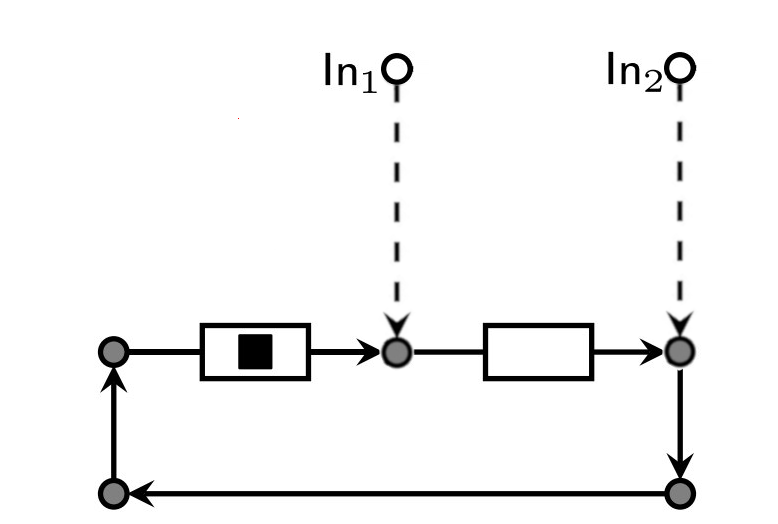
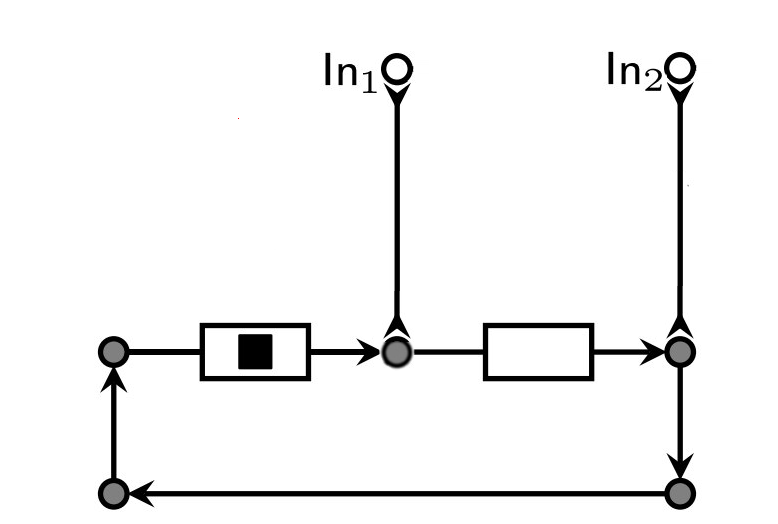
plaatje sequencer gefixt

Changed region(s): [[0.8329, 0.1221, 0.8946, 0.7023], [0.4936, 0.1527, 0.5244, 0.6718]]

diff --git a/treo/Nsequencer.rs b/treo/Nsequencer.rs
@@ -9,24 +9,21 @@ use reo_rs::{Instruction::*, Term::*};
 
 #[no_mangle]
 pub extern fn reors_generated_proto_create() -> CProtoHandle {
-    reo_rs::to_c_proto(proto_protocol1_build_rust::<isize,isize,isize,isize>())
+    reo_rs::to_c_proto(proto_protocol1_build_rust::<isize,isize,isize>())
 }
 
-pub fn proto_protocol1_build_rust<T0, T1, T2, T3>(
+pub fn proto_protocol1_build_rust<T0, T1, T2>(
 ) -> ProtoHandle
 where
     T0: 'static + Send + Sync + Sized,
     T1: 'static + Send + Sync + Sized,
     T2: 'static + Send + Sync + Sized,
-    T3: 'static + Send + Sync + Sized,
 {
     let name_defs = hashmap!{
         "p_2" => Port { is_putter:  true, type_info: TypeInfo::of::<T0>() },
-        "p_1" => Port { is_putter:  true, type_info: TypeInfo::of::<T1>() },
-        "p_3" => Port { is_putter:  true, type_info: TypeInfo::of::<T2>() },
-        "m1" => Mem(TypeInfo::of::<T3>()),
-        "m2" => Mem(TypeInfo::of::<T3>()),
-        "m3" => Mem(TypeInfo::of::<T3>()),
+        "p_1" => Port { is_putter:  true, type_info: TypeInfo::of::<T2>() },
+        "m1" => Mem(TypeInfo::of::<T1>()),
+        "m2" => Mem(TypeInfo::of::<T1>()),
     };
     let rules = vec![
         RuleDef {
@@ -44,36 +41,22 @@ where
         },
         RuleDef {
             state_guard: StatePredicate {
-                ready_ports: hashset! {"p_3", },
-                full_mem: hashset! {"m2", },
-                empty_mem: hashset! {"m3", },
-            },
-            ins: vec![
-            ],
-            output: hashmap!{
-                "m2" => (false, hashset!{"m3", }),
-                "p_3" => (false, hashset!{}),
-            }
-        },
-        RuleDef {
-            state_guard: StatePredicate {
                 ready_ports: hashset! {"p_1", },
-                full_mem: hashset! {"m3", },
+                full_mem: hashset! {"m2", },
                 empty_mem: hashset! {"m1", },
             },
             ins: vec![
             ],
             output: hashmap!{
                 "p_1" => (false, hashset!{}),
-                "m3" => (false, hashset!{"m1", }),
+                "m2" => (false, hashset!{"m1", }),
             }
         },
     ];
     let mem_init = MemInitial::default()
-        .with<T3>("m3", ""0"".into());
+        .with::<T1>::("m2", "0".into());
     ProtoDef {
         name_defs,
         rules
     }.build(mem_init).expect("Oh no! Reo failed to build!")
 }
-
